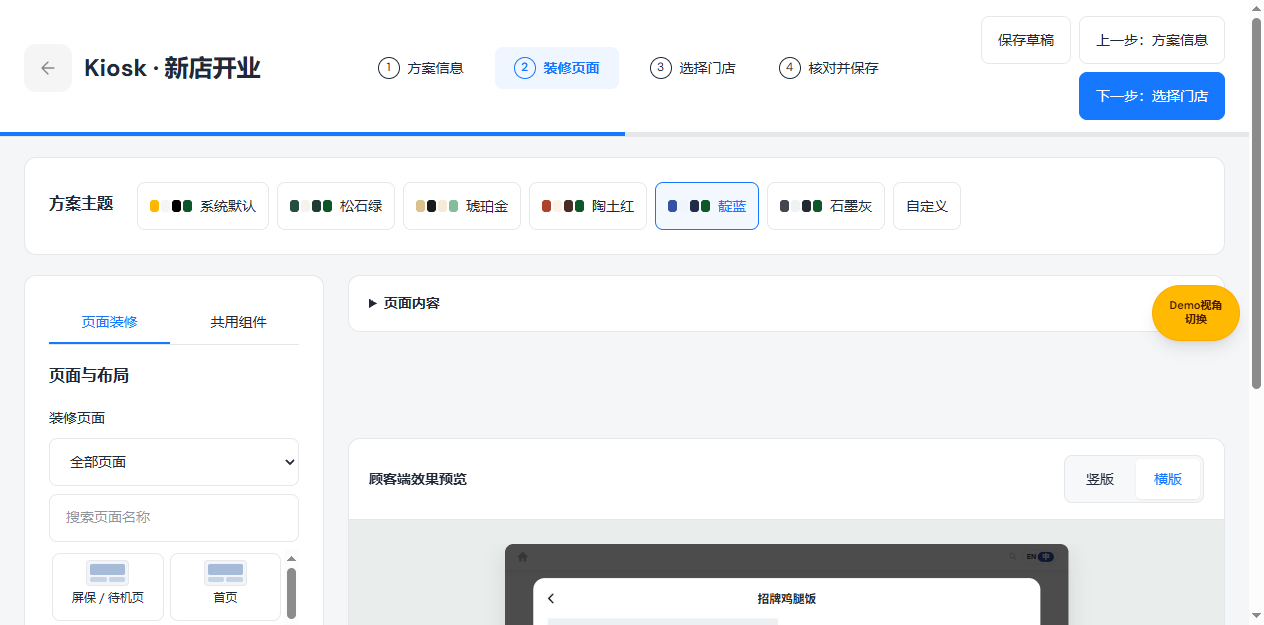
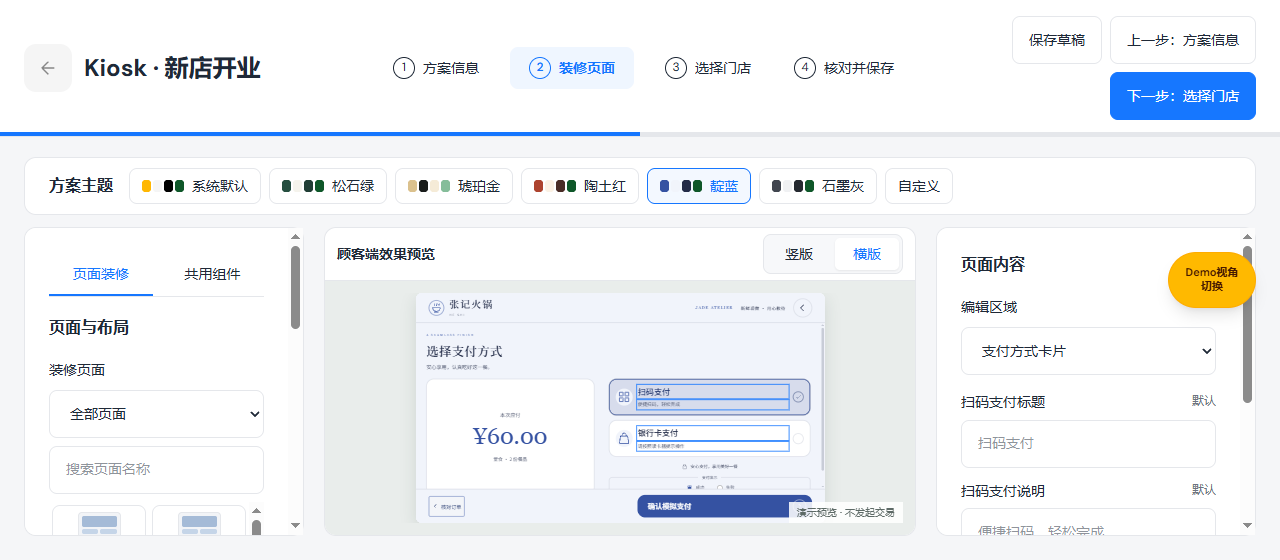
Fit decoration previews and contain setup scrolling

diff --git a/admin-web/src/brand-decoration/ui.ts b/admin-web/src/brand-decoration/ui.ts
@@ -518,6 +518,29 @@ export function bindBrandDecorationPage(app: HTMLElement): void {
             resolveSchedule(legacyForStore(store), s.channel, now).fallback?.snapshot ??
             newScheme(s.channel, '项目原生样式', scope.brandName);
     }
+    const workbenchViewport = root.closest<HTMLElement>('[data-decoration-workbench]');
+    function fitPreviewStage() {
+        const stage = root.querySelector<HTMLElement>(':is(.bd-workbench,.bd-plan-preview) .bd-preview-stage');
+        if (!stage) return;
+        const viewportTop = workbenchViewport?.getBoundingClientRect().top ?? 0;
+        const viewportHeight = workbenchViewport?.clientHeight ?? window.innerHeight;
+        const scrollTop = workbenchViewport?.scrollTop ?? window.scrollY;
+        const stageTop = stage.getBoundingClientRect().top - viewportTop + scrollTop;
+        const height = Math.max(220, Math.floor(viewportHeight - stageTop - 16));
+        const value = height + 'px';
+        if (stage.style.getPropertyValue('--bd-preview-height') !== value)
+            stage.style.setProperty('--bd-preview-height', value);
+    }
+    const previewResize = new ResizeObserver(fitPreviewStage);
+    function observePreviewLayout() {
+        previewResize.disconnect();
+        if (workbenchViewport) previewResize.observe(workbenchViewport);
+        previewResize.observe(root);
+        for (const element of root.querySelectorAll('.standalone-page-header,.bd-palette-panel,.bd-preview-toolbar,.bd-preview > .bd-help,.bd-content-panel'))
+            previewResize.observe(element);
+        fitPreviewStage();
+    }
+
     function previewDirectionControls() {
         return `<fieldset class="bd-preview-direction" aria-label="预览方向"><div>
                 <label><input type="radio" name="bd-preview-direction" data-bd-field="orientation" value="portrait" ${orientation === 'portrait' ? 'checked' : ''}><span>竖版</span></label>
@@ -533,7 +556,7 @@ export function bindBrandDecorationPage(app: HTMLElement): void {
         const inherited = version.rules?.kind === 'activity' && !version.rules.pageIds.includes(page);
         root.innerHTML = renderStandalonePageHeader({
             titleHtml: esc(s.name) + ' · 效果预览',
-            subtitleHtml: esc(label(channel)),
+            subtitleHtml: channel === 'kiosk' ? undefined : esc(label(channel)),
             backHtml: `<a href="#${ROOT}/pages?channel=${channel}${legacy ? '&legacy=1' : ''}">返回方案列表</a>`,
         }) + `<div class="bd-plan-preview">
             <aside class="bd-card bd-config">${pagePicker(s, true)}</aside>
@@ -546,6 +569,7 @@ export function bindBrandDecorationPage(app: HTMLElement): void {
             <div class="bd-preview-stage"><iframe title="${esc(s.name)}效果预览" src="${PREVIEW_URL}" data-bd-frame sandbox="allow-scripts allow-same-origin"></iframe></div>
             </section></div>`;
         restorePagePicker();
+        observePreviewLayout();
     }
     type ListFilters = { channel: string; kind: string; name: string; published: string };
     const emptyListFilters = (): ListFilters => ({ channel: '', kind: '', name: '', published: '' });
@@ -1281,6 +1305,10 @@ export function bindBrandDecorationPage(app: HTMLElement): void {
         channel = s.channel;
         const previousGrid = root.querySelector<HTMLElement>('[data-bd-page-cards]');
         if (previousGrid) pageCardsScroll = previousGrid.scrollTop;
+        const samePage = previousGrid?.querySelector<HTMLElement>('[aria-pressed=true]')?.dataset.value === page;
+        const scrollRegions = ['.bd-workbench', '.bd-workbench > .bd-config'];
+        if (samePage) scrollRegions.push('.bd-workbench > .bd-content-panel');
+        const scrollOffsets = scrollRegions.map(selector => root.querySelector(selector)?.scrollTop ?? 0);
         const style = s.styles[page];
         const activity = s.rules?.kind === 'activity';
         const inherited = activity && !s.rules!.pageIds.includes(page);
@@ -1308,6 +1336,11 @@ export function bindBrandDecorationPage(app: HTMLElement): void {
             : `<h2>页面与布局</h2>${pagePicker(s)}<fieldset ${writable()}><legend>${esc(layoutTitle)}</legend>${modeControls}</fieldset>${currentMode === 'custom' ? `<div class="bd-themes" role="group" aria-label="当前页面模板"><h3>页面模板</h3>${(Object.keys(PAGE_TEMPLATES) as Theme[]).map(id => templateCard('theme', id, PAGE_TEMPLATES[id].name, !style.referenceTemplate && !style.referenceLayout && style.theme === id, id, PAGE_TEMPLATES[id].note)).join('')}</div>${!style.referenceTemplate && !style.referenceLayout ? `<button class="bd-wide" data-bd-action="suite" ${writable()}>将当前模板应用到全部 ${pages(channel).length} 页</button>` : ''}` : ''}${referenceTemplateControls(s, currentMode === 'custom')} ${storePicker}${legacy ? `<label>方案名称<input data-bd-field="name" value="${esc(s.name)}" maxlength="40" ${writable()}></label>` : ''}`;
         root.innerHTML = (flow ? flowHeader.bind(null, 2) : renderStandalonePageHeader)({ titleHtml: esc(s.name), backHtml: `<a href="#${ROOT}/pages?channel=${channel}${legacy ? "&legacy=1" : ""}">返回方案列表</a>`, subtitleHtml: channel === 'kiosk' ? undefined : esc(label(channel)), actionsHtml: `${flow && scope.canWrite ? previousStep(s.id, "rules", "方案信息") : ""}<button data-bd-action="publish" class="bd-primary" ${writable()}>${flow ? "下一步：选择门店" : "发布演示版本"}</button>${flow && scope.canWrite ? draftButton() : ''}` }) + (flow ? `<div data-bd-notice class="bd-notice ${messageError ? 'bd-error' : ''}" role="${messageError ? 'alert' : 'status'}">${esc(message)}</div>` : tip()) + paletteControls(s) + `<div class="bd-workbench"><aside class="bd-card bd-config">${workbenchTabs()}<div class="bd-sidebar-panel" id="bd-workbench-panel" role="tabpanel" aria-labelledby="bd-workbench-${workbenchMode}-tab">${sidebar}</div></aside><section class="bd-preview"><div class="bd-preview-toolbar"><strong>顾客端效果预览</strong>${components ? `<select aria-label="预览页面" data-bd-field="page">${pageOptions}</select>${storePicker}` : ''}${postPaymentScenePicker()}${previewDirectionControls()}</div><div class="bd-preview-stage">${inherited && !previewStores.length ? '<p class="bd-help">选择门店后可预览日常装修</p>' : `<iframe title="${label(channel)}页面样式预览" src="${PREVIEW_URL}" data-bd-frame sandbox="allow-scripts allow-same-origin"></iframe>`}</div></section>${components ? componentProperties(s) : pageContentPanel(s, currentMode)}</div>`;
         if (!components) restorePagePicker();
+        scrollRegions.forEach((selector, index) => {
+            const region = root.querySelector(selector);
+            if (region) region.scrollTop = scrollOffsets[index];
+        });
+        if (!flow) observePreviewLayout();
     }
     function closeModal() { if (!modal)
         return; modal.dispatchEvent(new Event('bd-dismiss')); }
@@ -1766,8 +1799,9 @@ export function bindBrandDecorationPage(app: HTMLElement): void {
     wideWorkbench.addEventListener('change', syncContentPanel);
     root.addEventListener('change', change);
     root.addEventListener('input', searchEditorPages);
+    window.addEventListener('resize', fitPreviewStage);
     window.addEventListener('message', frameMessage);
     window.addEventListener('storage', storage);
-    dispose = () => { window.clearInterval(scheduleClock); closeModal(); root.removeEventListener('keydown', workbenchKeydown); root.removeEventListener('submit', filterSubmit); root.removeEventListener('click', click); root.removeEventListener('click', toggleContentPanel); wideWorkbench.removeEventListener('change', syncContentPanel); root.removeEventListener('change', change); root.removeEventListener('input', searchEditorPages); window.removeEventListener('message', frameMessage); window.removeEventListener('storage', storage); };
+    dispose = () => { previewResize.disconnect(); window.removeEventListener('resize', fitPreviewStage); window.clearInterval(scheduleClock); closeModal(); root.removeEventListener('keydown', workbenchKeydown); root.removeEventListener('submit', filterSubmit); root.removeEventListener('click', click); root.removeEventListener('click', toggleContentPanel); wideWorkbench.removeEventListener('change', syncContentPanel); root.removeEventListener('change', change); root.removeEventListener('input', searchEditorPages); window.removeEventListener('message', frameMessage); window.removeEventListener('storage', storage); };
     draw();
 }

diff --git a/admin-web/src/brand-decoration/style.css b/admin-web/src/brand-decoration/style.css
@@ -40,8 +40,7 @@
 .bd-review-summary dt{color:var(--muted-foreground);margin-bottom:4px}
 .bd-review-summary dd{margin:0;overflow-wrap:anywhere}
 .bd-review-card .bd-help{margin-top:12px}
-.bd-workbench .bd-preview-stage{height:clamp(340px,calc(100dvh - 260px),780px)}
-@media(max-width:640px){.bd-flow-grid,.bd-review-summary{grid-template-columns:1fr}.bd-workbench .bd-preview-stage{height:520px}}
+@media(max-width:640px){.bd-flow-grid,.bd-review-summary{grid-template-columns:1fr}}
 
 .bd-plan-form [data-bd-store-item][hidden]{display:none}.bd-flow-actions{gap:12px;flex-wrap:wrap}
 
@@ -339,8 +338,73 @@ header.standalone-page-header.bd-flow-header[data-standalone-page-header]{
   align-items:start;
 }
 .bd-plan-preview .bd-page-cards {max-height:clamp(232px,calc(100dvh - 320px),660px)}
-.bd-plan-preview .bd-preview-stage {height:clamp(420px,calc(100dvh - 220px),900px)}
+
 @media (max-width:800px) {
   .bd-plan-preview {grid-template-columns:minmax(0,1fr)}
   .bd-plan-preview .bd-page-cards {max-height:232px}
+}
+
+.bd-card.bd-palette-panel {padding-block:10px;gap:8px 16px;margin-bottom:12px}
+.bd-palette-panel h2 {margin:0}
+.bd-palette-panel .bd-palette-option,.bd-palette-panel .bd-palette-custom input {min-height:36px}
+:is(.bd-workbench,.bd-plan-preview) .bd-preview-toolbar {padding:6px 12px;gap:6px 12px}
+:is(.bd-workbench,.bd-plan-preview) .bd-preview-toolbar select {min-height:36px}
+:is(.bd-workbench,.bd-plan-preview) .bd-preview-direction span {min-height:32px}
+:is(.bd-workbench,.bd-plan-preview) .bd-preview-stage {
+  height:var(--bd-preview-height,clamp(220px,calc(100dvh - 240px),900px));
+  padding:12px;
+}
+
+/* Keep each step inside the full-screen flow; scroll only the overflowing region. */
+[data-decoration-workbench]:has(> .bd > .bd-flow-header) {
+  display:flex;
+  flex-direction:column;
+  overflow:hidden;
+}
+[data-decoration-workbench]:has(> .bd > .bd-flow-header) > :not(.bd) {flex:none}
+[data-decoration-workbench] > .bd:has(> .bd-flow-header) {
+  display:flex;
+  flex:1 1 auto;
+  flex-direction:column;
+  min-height:0;
+  overflow:hidden;
+}
+.bd-flow-header,
+.bd-flow-header ~ :is(.bd-notice,.bd-palette-panel) {flex:none}
+.bd-flow-header ~ :is(.bd-flow-content,.bd-store-page,.bd-workbench) {
+  flex:1 1 auto;
+  min-height:0;
+}
+.bd-flow-header ~ :is(.bd-flow-content,.bd-store-page) {
+  overflow:auto;
+  overscroll-behavior:contain;
+}
+.bd-flow-header ~ .bd-workbench {grid-template-rows:minmax(0,1fr)}
+.bd-flow-header ~ .bd-workbench > :is(.bd-config,.bd-content-panel) {
+  max-height:100%;
+  min-height:0;
+  overflow:auto;
+  overscroll-behavior:contain;
+}
+.bd-flow-header ~ .bd-workbench > .bd-config > * {flex:none}
+.bd-flow-header ~ .bd-workbench > .bd-preview {
+  align-self:stretch;
+  min-height:0;
+  display:flex;
+  flex-direction:column;
+}
+.bd-flow-header ~ .bd-workbench .bd-preview > :is(.bd-preview-toolbar,.bd-help) {flex:none}
+.bd-flow-header ~ .bd-workbench .bd-preview-stage {flex:1;min-height:0;height:auto}
+@media (min-width:801px) and (max-width:1279px) {
+  .bd-flow-header ~ .bd-workbench {grid-template-rows:auto minmax(0,1fr)}
+  .bd-flow-header ~ .bd-workbench > .bd-content-panel {max-height:32dvh}
+}
+@media (max-width:800px) {
+  .bd-flow-header ~ .bd-workbench {
+    grid-template-rows:none;
+    overflow:auto;
+    overscroll-behavior:contain;
+  }
+  .bd-flow-header ~ .bd-workbench > :is(.bd-config,.bd-content-panel) {max-height:none}
+  .bd-flow-header ~ .bd-workbench .bd-preview-stage {flex:none;height:clamp(240px,65dvh,660px)}
 }

diff --git a/admin-web/docs/项目文档/品牌装修业务规格说明书（研发交付版）.md b/admin-web/docs/项目文档/品牌装修业务规格说明书（研发交付版）.md
@@ -155,7 +155,7 @@ Scheme.paletteId 为可选枚举，缺少时按历史渲染。theme 仍是单页
 
 装修方案列表的有效期显示开始与结束时间，按门店时区格式化，时间后不附加时区名称。
 
-装修工作台的「顾客端效果预览」与独立效果预览共用「竖版」「横版」切换。切换方向保留当前页面和页面筛选。Kiosk 按 1080×1920 或 1920×1080 展示，eMenu 自定义布局按 390×844 或 844×390 展示。
+装修工作台的「顾客端效果预览」与独立效果预览共用「竖版」「横版」切换。切换方向保留当前页面和页面筛选。画布随可用高度缩放。新建方案的页头固定，装修工作台宽屏时各配置区域在内容超高后独立滚动，窄屏时只滚动页头和方案主题下方的工作区。其他步骤只滚动步骤内容区。Kiosk 独立预览页头只显示方案标题。Kiosk 按 1080×1920 或 1920×1080 展示，eMenu 自定义布局按 390×844 或 844×390 展示。
 
 ### 从参考图生成页面模板
 

diff --git a/admin-web/docs/项目文档/品牌装修产品权威需求文档.md b/admin-web/docs/项目文档/品牌装修产品权威需求文档.md
@@ -158,7 +158,7 @@ eMenu 自定义使用独立的 390×844 移动端布局；不将 Kiosk 页面缩
 
 装修方案列表的有效期显示开始与结束时间，按门店时区格式化，时间后不附加时区名称。
 
-装修工作台的「顾客端效果预览」与独立效果预览共用「竖版」「横版」切换。切换方向保留当前页面和页面筛选。Kiosk 按 1080×1920 或 1920×1080 展示，eMenu 自定义布局按 390×844 或 844×390 展示。
+装修工作台的「顾客端效果预览」与独立效果预览共用「竖版」「横版」切换。切换方向保留当前页面和页面筛选。画布随可用高度缩放。新建方案的页头固定，装修工作台宽屏时各配置区域在内容超高后独立滚动，窄屏时只滚动页头和方案主题下方的工作区。其他步骤只滚动步骤内容区。Kiosk 独立预览页头只显示方案标题。Kiosk 按 1080×1920 或 1920×1080 展示，eMenu 自定义布局按 390×844 或 844×390 展示。
 
 ### 从参考图生成页面模板
 

diff --git a/admin-web/docs/项目文档/品牌装修需求文档（个人规范版）.md b/admin-web/docs/项目文档/品牌装修需求文档（个人规范版）.md
@@ -506,7 +506,7 @@
 
 ![装修工作台的横版预览](品牌装修图片/editor-landscape-preview.png)
 
-装修工作台的「顾客端效果预览」与独立效果预览共用「竖版」「横版」切换。切换方向保留当前页面和页面筛选。Kiosk 按 1080×1920 或 1920×1080 展示，eMenu 自定义布局按 390×844 或 844×390 展示。
+装修工作台的「顾客端效果预览」与独立效果预览共用「竖版」「横版」切换。切换方向保留当前页面和页面筛选。画布随可用高度缩放。新建方案的页头固定，装修工作台宽屏时各配置区域在内容超高后独立滚动，窄屏时只滚动页头和方案主题下方的工作区。其他步骤只滚动步骤内容区。Kiosk 独立预览页头只显示方案标题。Kiosk 按 1080×1920 或 1920×1080 展示，eMenu 自定义布局按 390×844 或 844×390 展示。
 
 ### 从参考图生成页面模板
 
